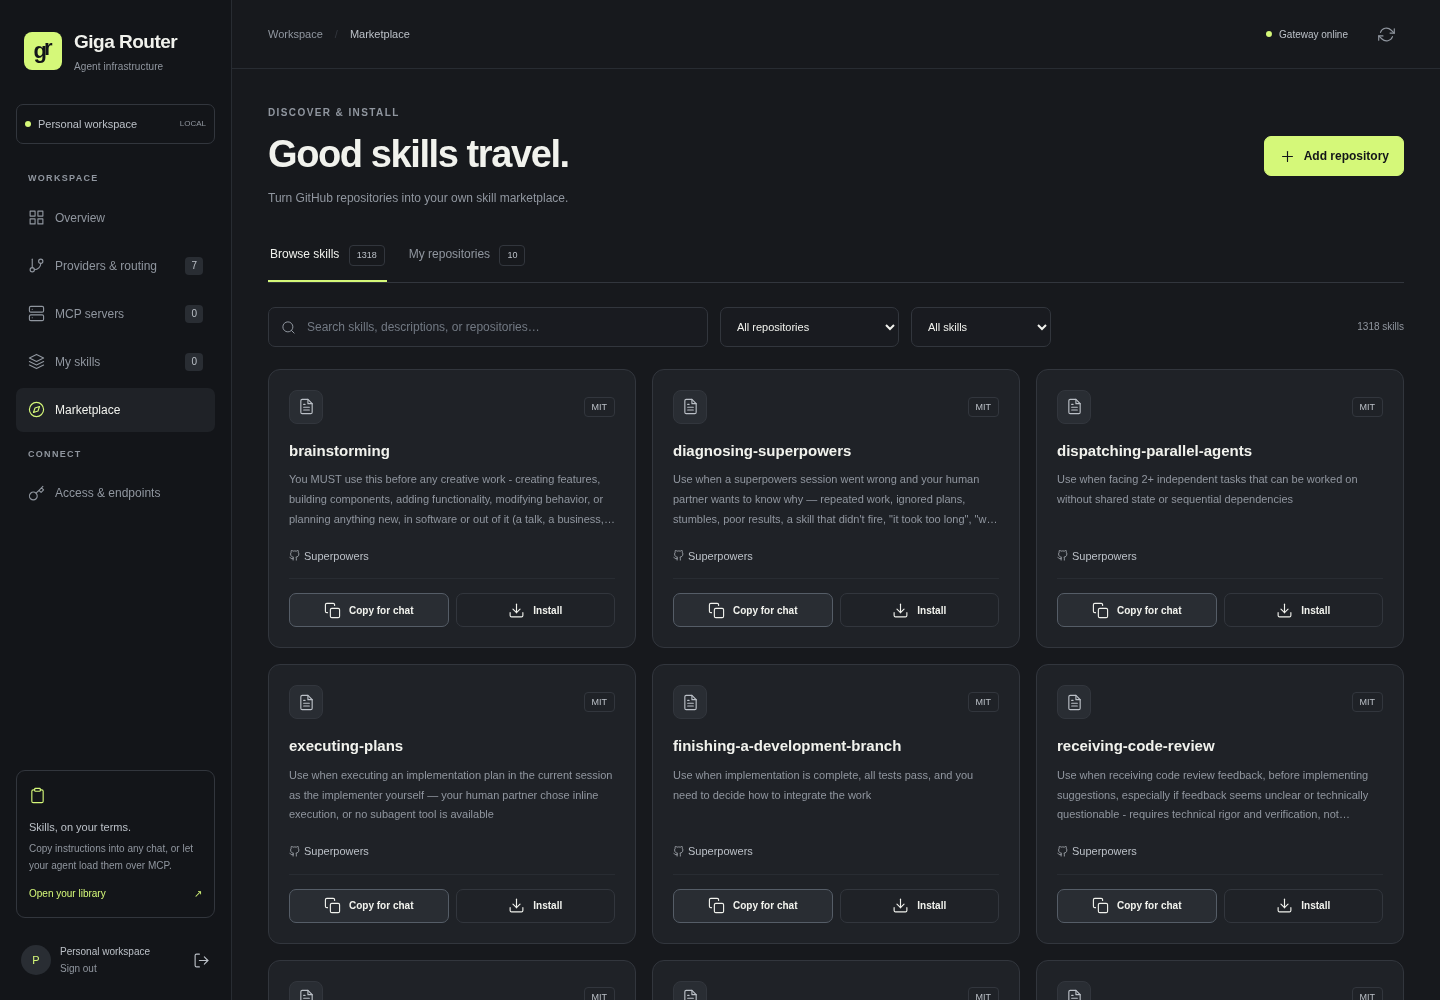
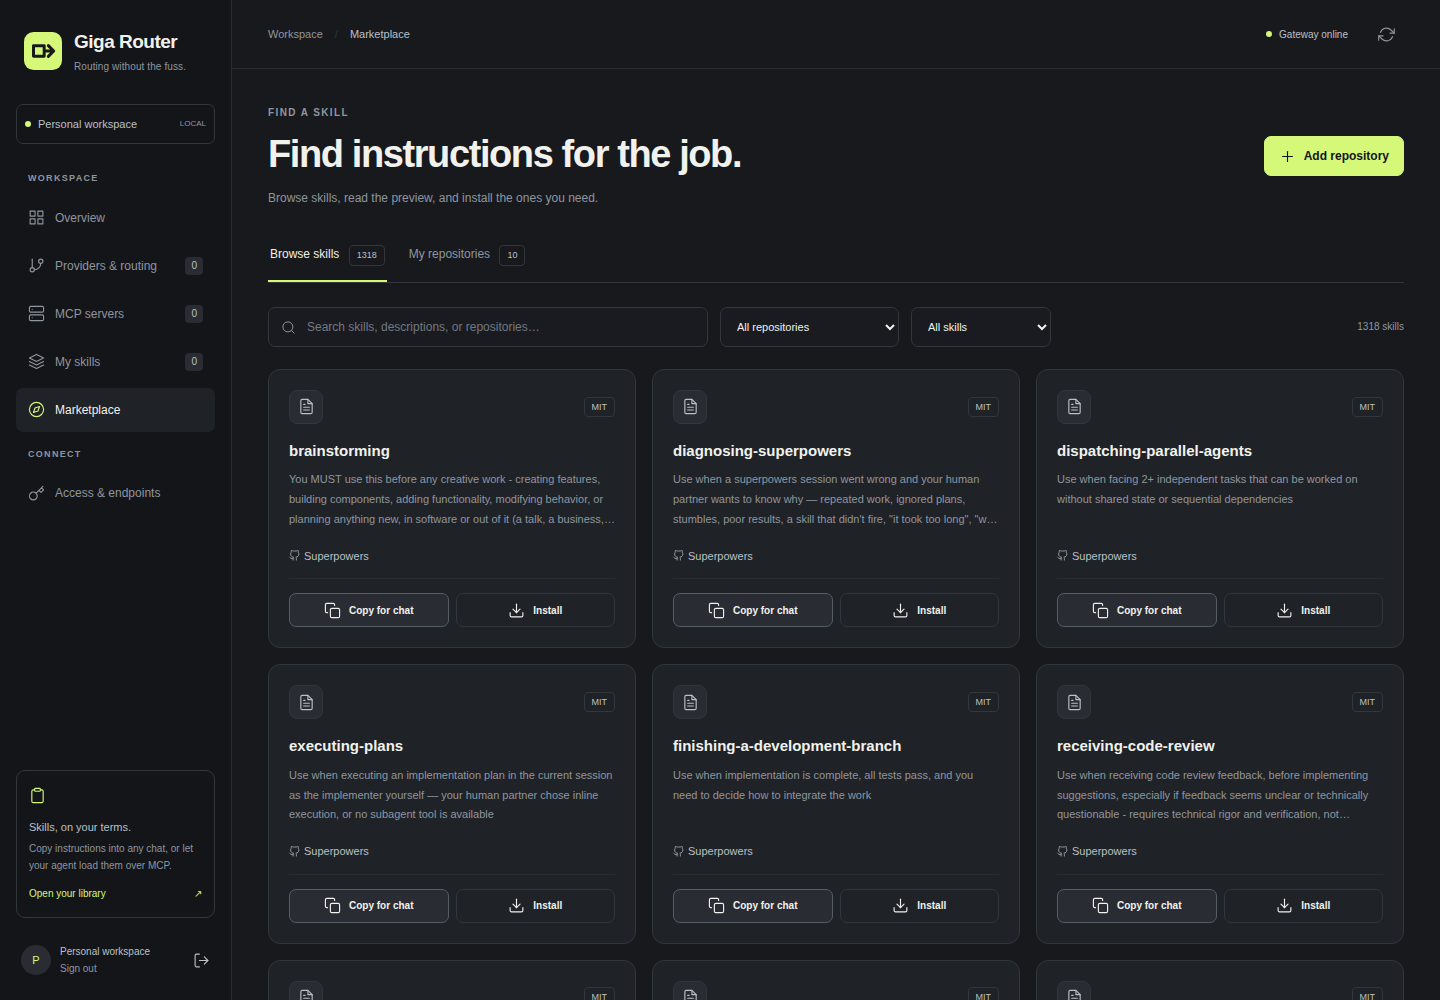
docs: refresh Giga Router brand screenshots
Lead with the routing overview and keep skill and app examples in an expandable gallery. Refresh captures from the verified browser workflow.

diff --git a/README.md b/README.md
@@ -1,6 +1,6 @@
 <div align="center">
 
-<img src="public/favicon.svg" alt="Giga Router logo" width="80" />
+<img src="public/favicon.svg" alt="Giga Router logo" width="80" height="80" />
 
 # Giga Router
 
@@ -15,16 +15,14 @@ fallbacks. MCP connections and reusable skills live in the same dashboard.
 
 [![CI](https://img.shields.io/github/actions/workflow/status/DeadIndian/giga-router/ci.yml?style=flat-square)](https://github.com/DeadIndian/giga-router/actions/workflows/ci.yml)
 [![Node.js](https://img.shields.io/badge/Node.js-22%2B-339933?style=flat-square&logo=node.js&logoColor=white)](https://nodejs.org/)
-[![Express](https://img.shields.io/badge/Express-4-000000?style=flat-square&logo=express&logoColor=white)](package.json)
 [![Version](https://img.shields.io/badge/version-1.1.0-d9f87e?style=flat-square)](package.json)
-[![MCP SDK](https://img.shields.io/badge/MCP%20SDK-1.32.1-6b7280?style=flat-square)](package.json)
 
 [Getting started](#installation) ·
 [Implementation guide](docs/giga-router.md) ·
 [Connect apps and tools](docs/mcp-integrations.md) ·
 [Report an issue](https://github.com/DeadIndian/giga-router/issues)
 
-<img src="docs/screenshots/marketplace.png" alt="Giga Router marketplace with searchable skill cards, license information, and copy and install actions" width="100%" />
+<img src="docs/screenshots/overview.png" alt="Giga Router overview with routing status, model and tool connections, and steps to get started" width="100%" />
 
 </div>
 
@@ -60,10 +58,18 @@ fallbacks. MCP connections and reusable skills live in the same dashboard.
 
 ## Screenshots
 
-The marketplace above includes pinned, searchable skill catalogs. The integration
-catalog below walks you through connecting hosted apps and local tools.
+<details>
+<summary>Find a skill or connect an app</summary>
+
+Browse skill catalogs, read a preview, and copy or install what you need.
+
+<img src="docs/screenshots/marketplace.png" alt="Giga Router marketplace with searchable skill cards, previews, and copy and install actions" width="100%" />
+
+Choose an app or local tool and follow its connection guide.
 
 <img src="docs/screenshots/integrations.png" alt="Giga Router integration catalog showing guided setup for GitHub, Notion, Linear, Supabase, Context7, and Tavily" width="100%" />
+
+</details>
 
 ## Installation
 
